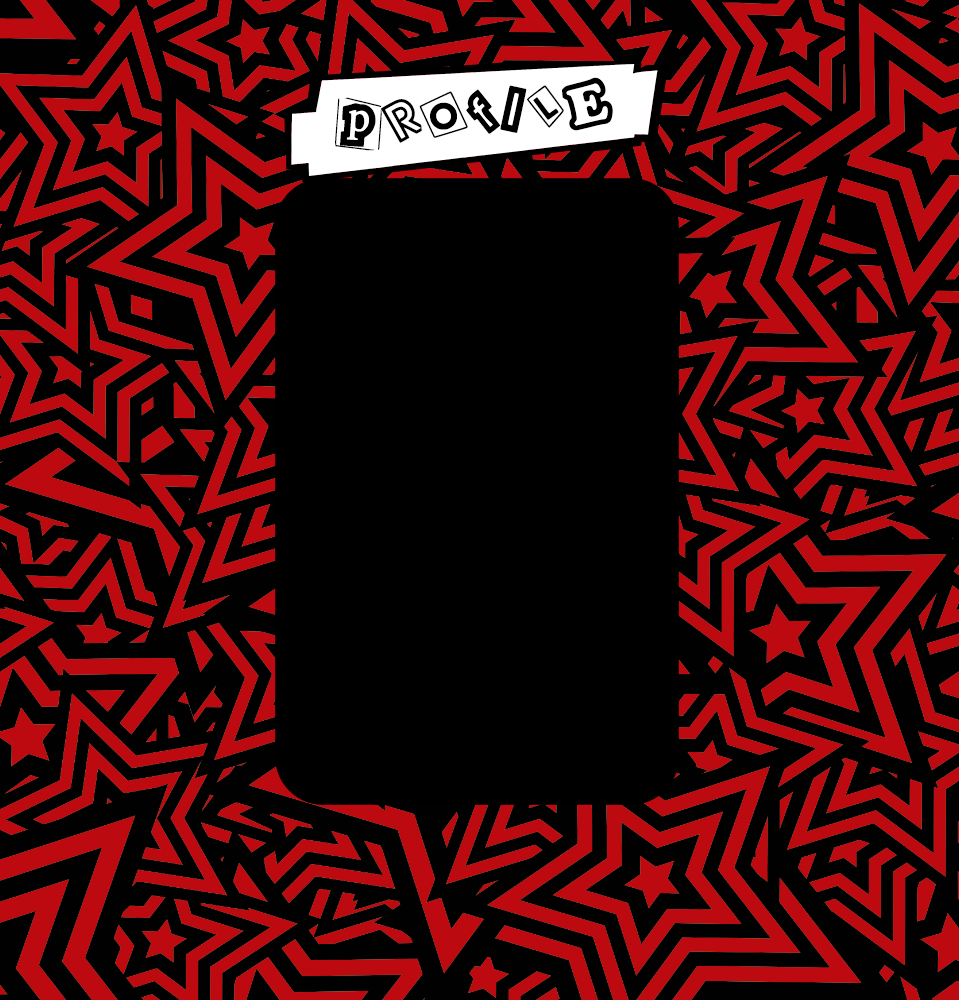
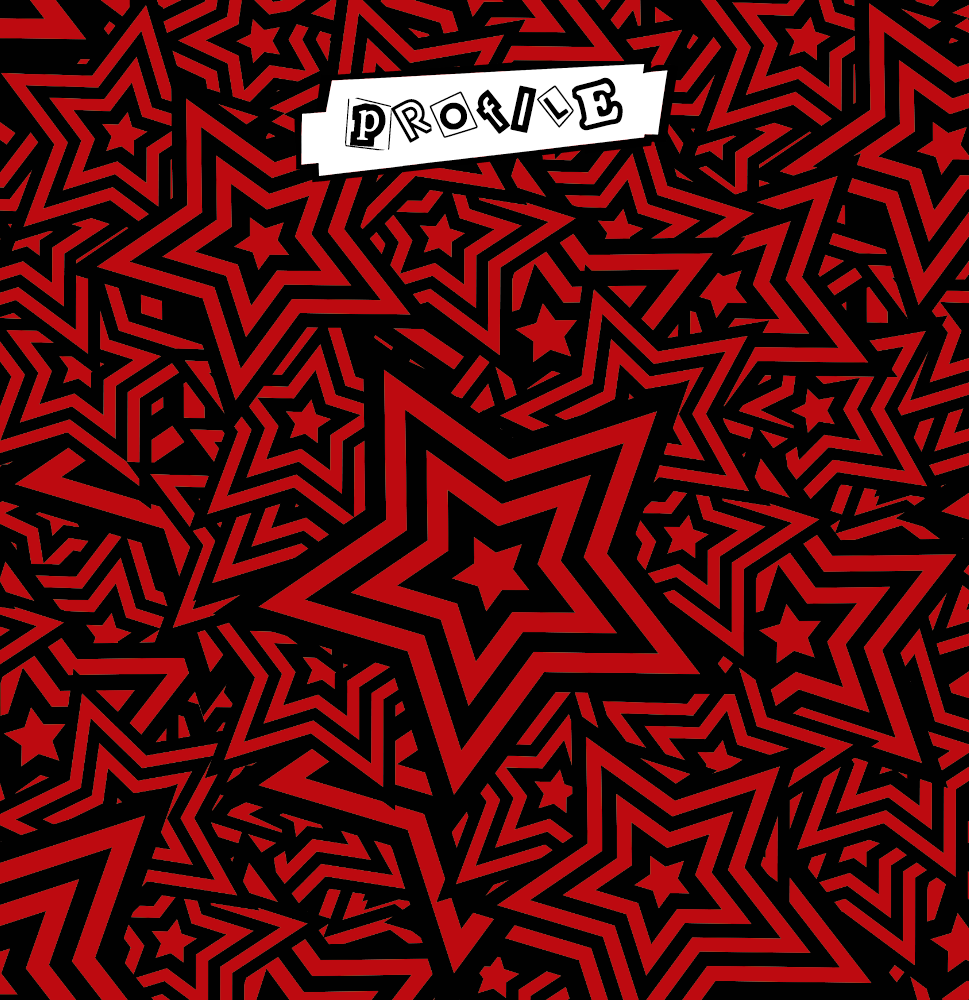
UI tweaks

diff --git a/app/src/main/assets/frontend/styles/style.css b/app/src/main/assets/frontend/styles/style.css
@@ -126,9 +126,22 @@ button[type="submit"] {
 }
 
 .error {
-  color: #f87171;
-  margin-bottom: 10px;
-  font-size: 0.8em;
+
+    color: white;
+
+    font-size: 1.0em;
+
+    text-align: center;
+
+    margin-top: 20px;
+
+    margin-bottom: 15px;
+
+    text-shadow:
+        2px 2px 0 black,
+        -2px -2px 0 black,
+        2px -2px 0 black,
+        -2px 2px 0 black;
 }
 
 .success {
@@ -441,51 +454,36 @@ button[type="submit"] {
 
 .profile-page {
 
-    background-image: url('../../images/ProfileCard.png');
-
-    background-repeat: no-repeat;
-
-    background-position: center;
+    background-image:
+        url('../../images/ProfileCard.png');
 
     background-size: cover;
 
+    background-position: center;
+
+    background-repeat: no-repeat;
+
     background-color: black;
-
-    padding: 0;
-
-    margin: 0;
-
-    overflow: hidden;
 }
 
 .profile-content {
 
-    position: absolute;
-
-    top: 180px;
-
-    left: 50%;
-
-    transform: translateX(-50%);
-
-    width: 290px;
-
-    color: white;
+    width: 100%;
 }
 
 .profile-row {
 
-    margin-bottom: 18px;
+    margin-bottom: 12px;
 
     border: 2px solid red;
 
     background: rgba(0,0,0,0.85);
 
-    padding: 12px;
+    padding: 8px;
 
     box-sizing: border-box;
 }
-}
+
 
 .profile-label {
 
@@ -510,7 +508,7 @@ button[type="submit"] {
 
     width: 100%;
 
-    height: 50px;
+    height: 42px;
 
     margin-top: 12px;
 
@@ -524,9 +522,11 @@ button[type="submit"] {
 
     font-family: 'p5hatty', sans-serif;
 
-    font-size: 1.3em;
+    font-size: 1em;
 
     cursor: pointer;
+
+    border-radius: 10px;
 }
 
 .profile-edit-input {
@@ -547,6 +547,27 @@ button[type="submit"] {
     caret-color: white;
 }
 
+.profile-back-btn {
+
+    display: block;
+
+        width: 320px;
+
+        margin: 20px auto 40px auto;
+    }
+.profile-card {
+
+    width: 90%;
+    max-width: 360px;
+
+    margin: 40px auto 30px auto;
+
+    background: black;
+
+    padding: 20px;
+
+    border-radius: 25px;
+}
 #editSection {
 
     display: none;
@@ -580,4 +601,11 @@ button[type="submit"] {
 
 button, a {
     touch-action: manipulation;
+}
+
+body {
+
+    transition:
+        transform 0.25s ease,
+        opacity 0.25s ease;
 }

diff --git a/app/src/main/assets/frontend/views/profile.html b/app/src/main/assets/frontend/views/profile.html
@@ -16,10 +16,9 @@
 
 <div class="profile-content">
 
-    <div class="error" id="error"></div>
-    <div class="success" id="success"></div>
+    <div class="profile-card">    <div class="error" id="error"></div>
 
-    <!-- VIEW MODE -->
+    <div class="success" id="success"></div>
 
     <div id="viewSection">
 
@@ -134,14 +133,10 @@
         </button>
 
     </div>
-
-    <button
-            class="back-btn"
-            onclick="window.location.href='main_page.html'">
-        Back
-    </button>
+    </div>
 </div>
 
+<button id="backBtn" class="back-btn profile-back-btn" onclick="window.location.href='main_page.html'"> Back </button>
 
 <script>
 
@@ -204,6 +199,8 @@
 
     document.getElementById("UsernameInput")
         .value = currentUser.Username;
+    document.getElementById("backBtn")
+    .style.display = "none";
 }
 
     function cancelEdit() {
@@ -216,6 +213,8 @@
 
     document.getElementById("error")
         .textContent = "";
+    document.getElementById("backBtn")
+    .style.display = "block";
 }
     function enablePasswordEdit() {
 
@@ -233,6 +232,8 @@
 
     document.getElementById("NewPassword")
         .value = "";
+    document.getElementById("backBtn")
+    .style.display = "none";
 }
 
     function cancelPasswordEdit() {
@@ -245,6 +246,8 @@
 
     document.getElementById("error")
         .textContent = "";
+    document.getElementById("backBtn")
+    .style.display = "block";
 }
 
     async function saveProfile() {

diff --git a/app/src/main/assets/frontend/views/login.html b/app/src/main/assets/frontend/views/login.html
@@ -9,6 +9,13 @@
 
     <script src="../js/config.js"></script>
     <script src="../js/auth.js"></script>
+    <script>
+
+        if (getToken()) {
+            window.location.href = "main_page.html";
+        }
+
+    </script>
 </head>
 
 <body>
@@ -92,7 +99,7 @@
                 window.AndroidInterface.saveTokenToAndroid(data.access_token);
             }
 
-            window.location.href = "profile.html";
+            window.location.href = "main_page.html";
 
         }
         catch (e) {

diff --git a/app/src/main/java/com/lexip/persona5metaapp/MainActivity.kt b/app/src/main/java/com/lexip/persona5metaapp/MainActivity.kt
@@ -40,7 +40,7 @@ class MainActivity : AppCompatActivity() {
             "AndroidInterface"
         )
 
-        webView.loadUrl("file:///android_asset/frontend/views/main_page.html")
+        webView.loadUrl("file:///android_asset/frontend/views/login.html")
 
         requestLocationPermissionsIfNeeded()
     }

diff --git a/app/src/main/assets/frontend/views/main_page.html b/app/src/main/assets/frontend/views/main_page.html
@@ -24,6 +24,9 @@
 </div>
 
 <script>
+    if (!getToken()) {
+    window.location.href = "login.html";
+}
     const buttons = document.querySelectorAll(".option-btn");
 
     buttons.forEach(button => {
